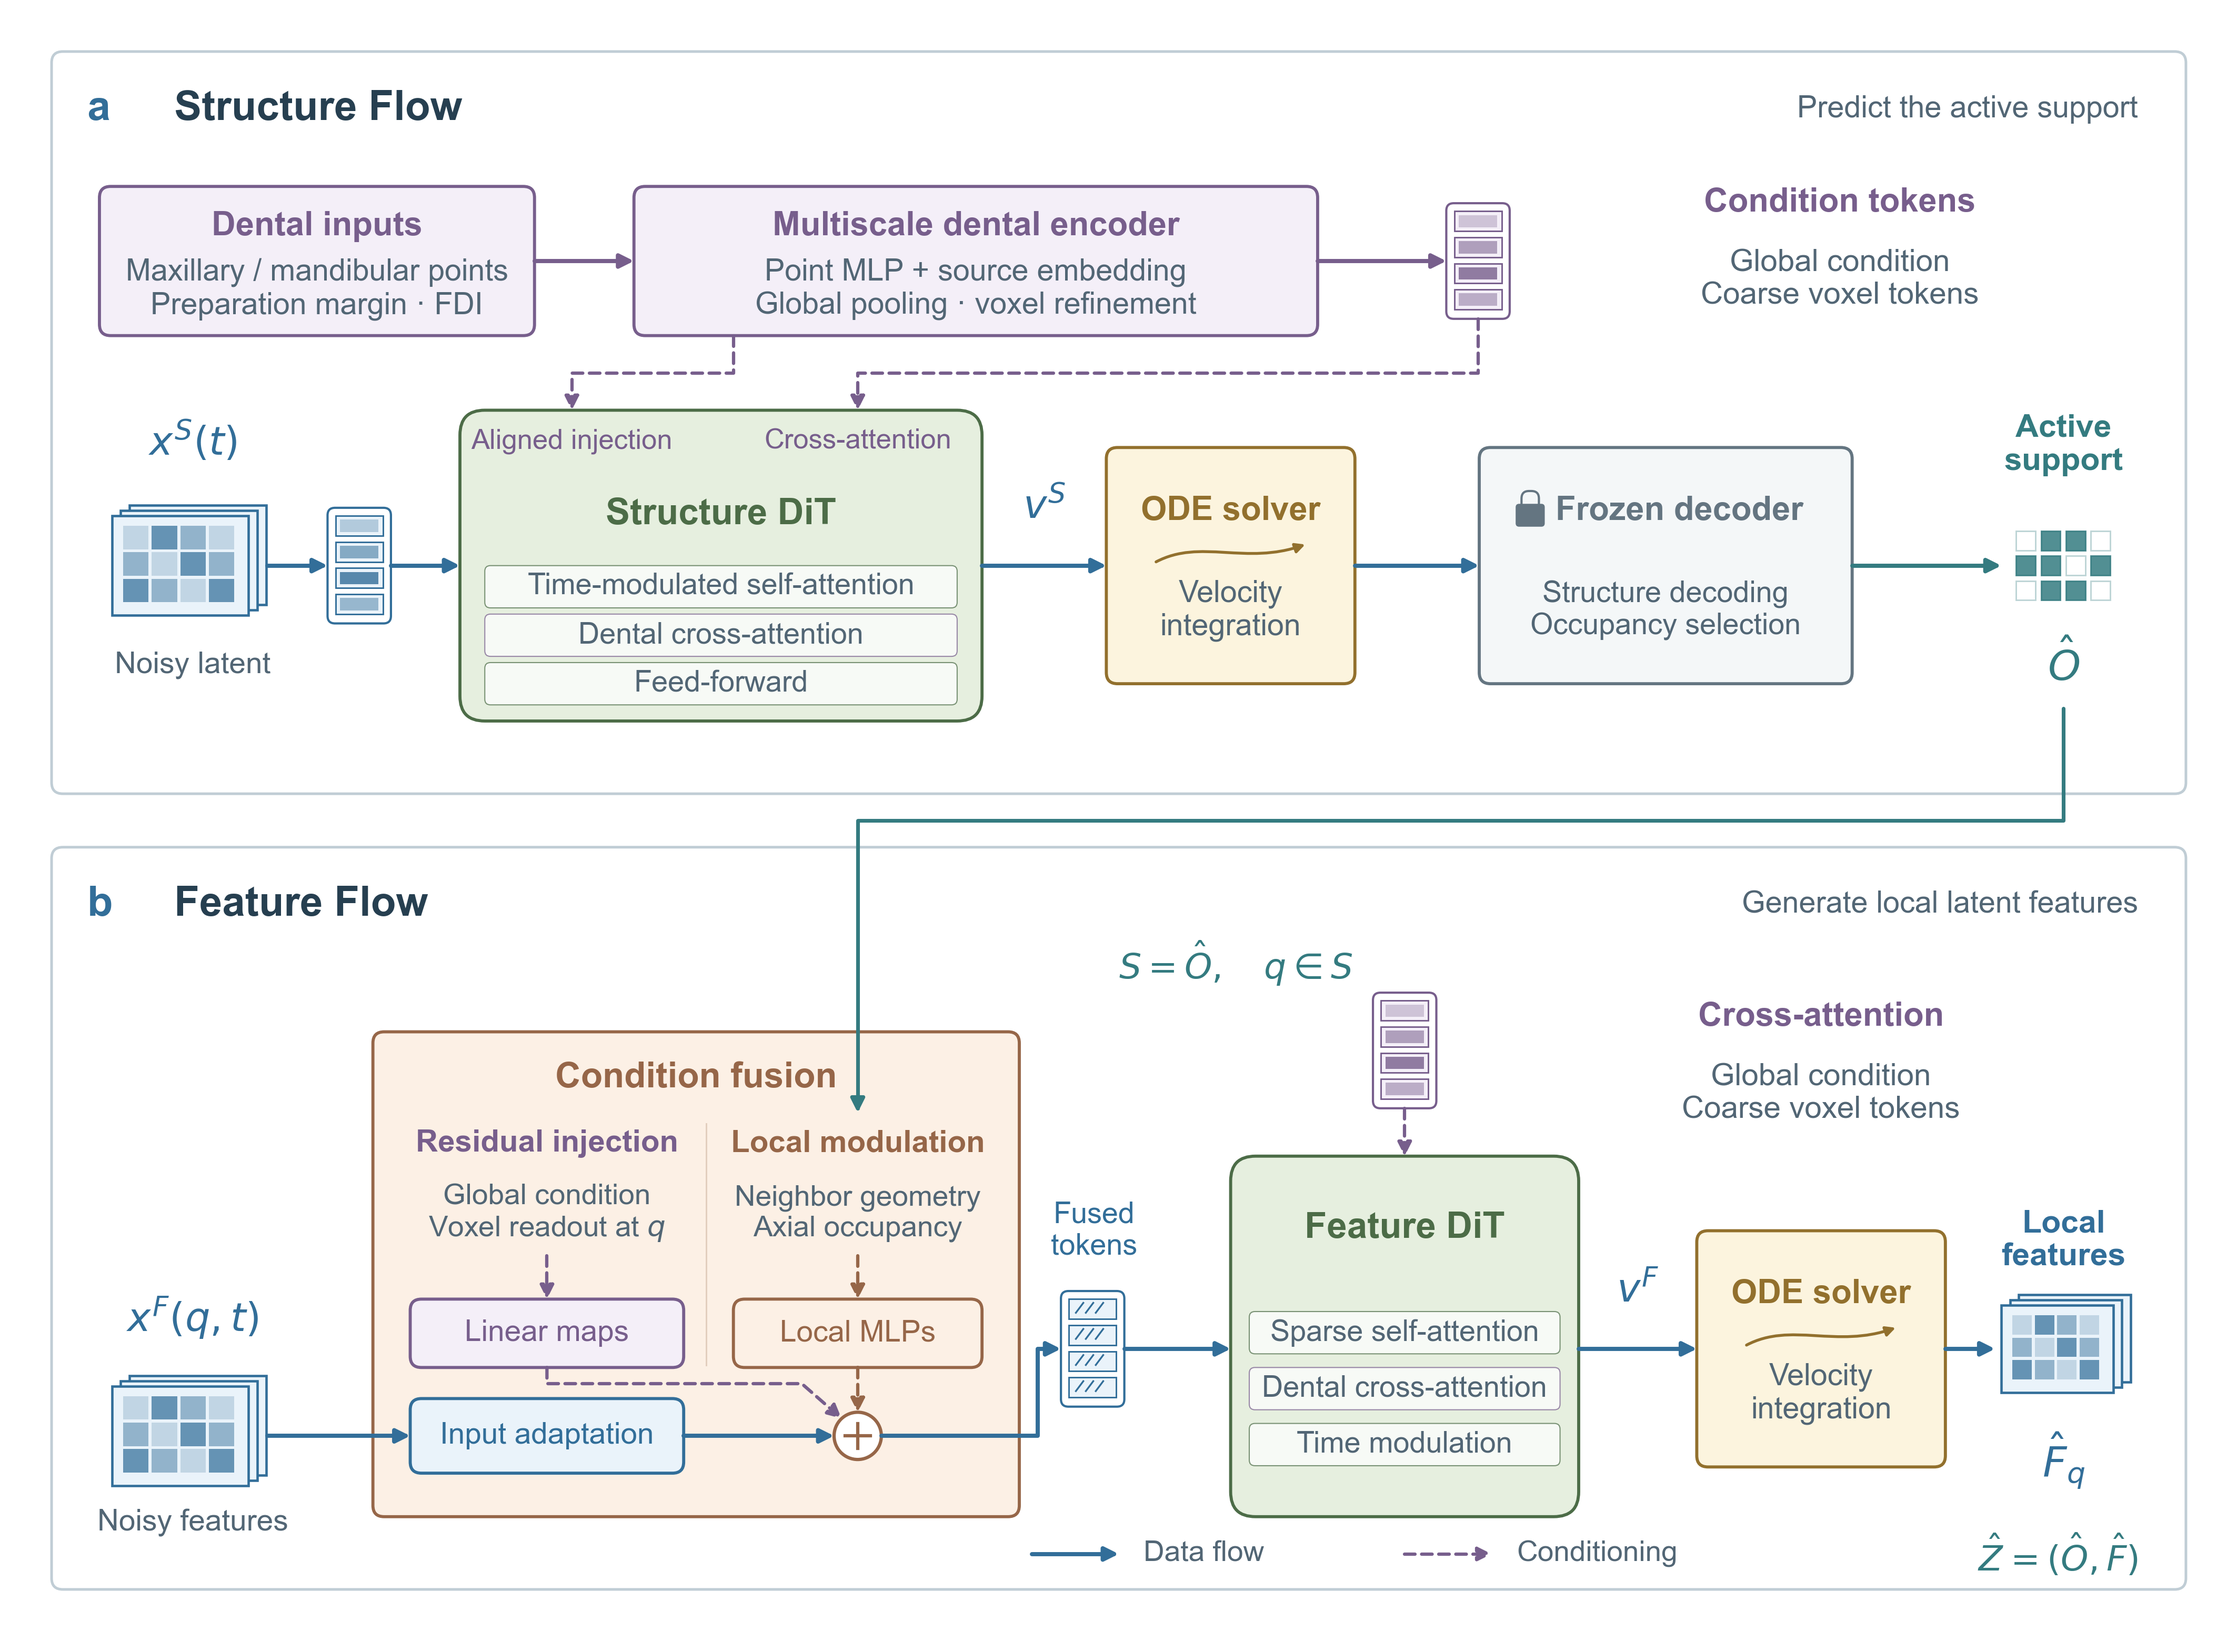
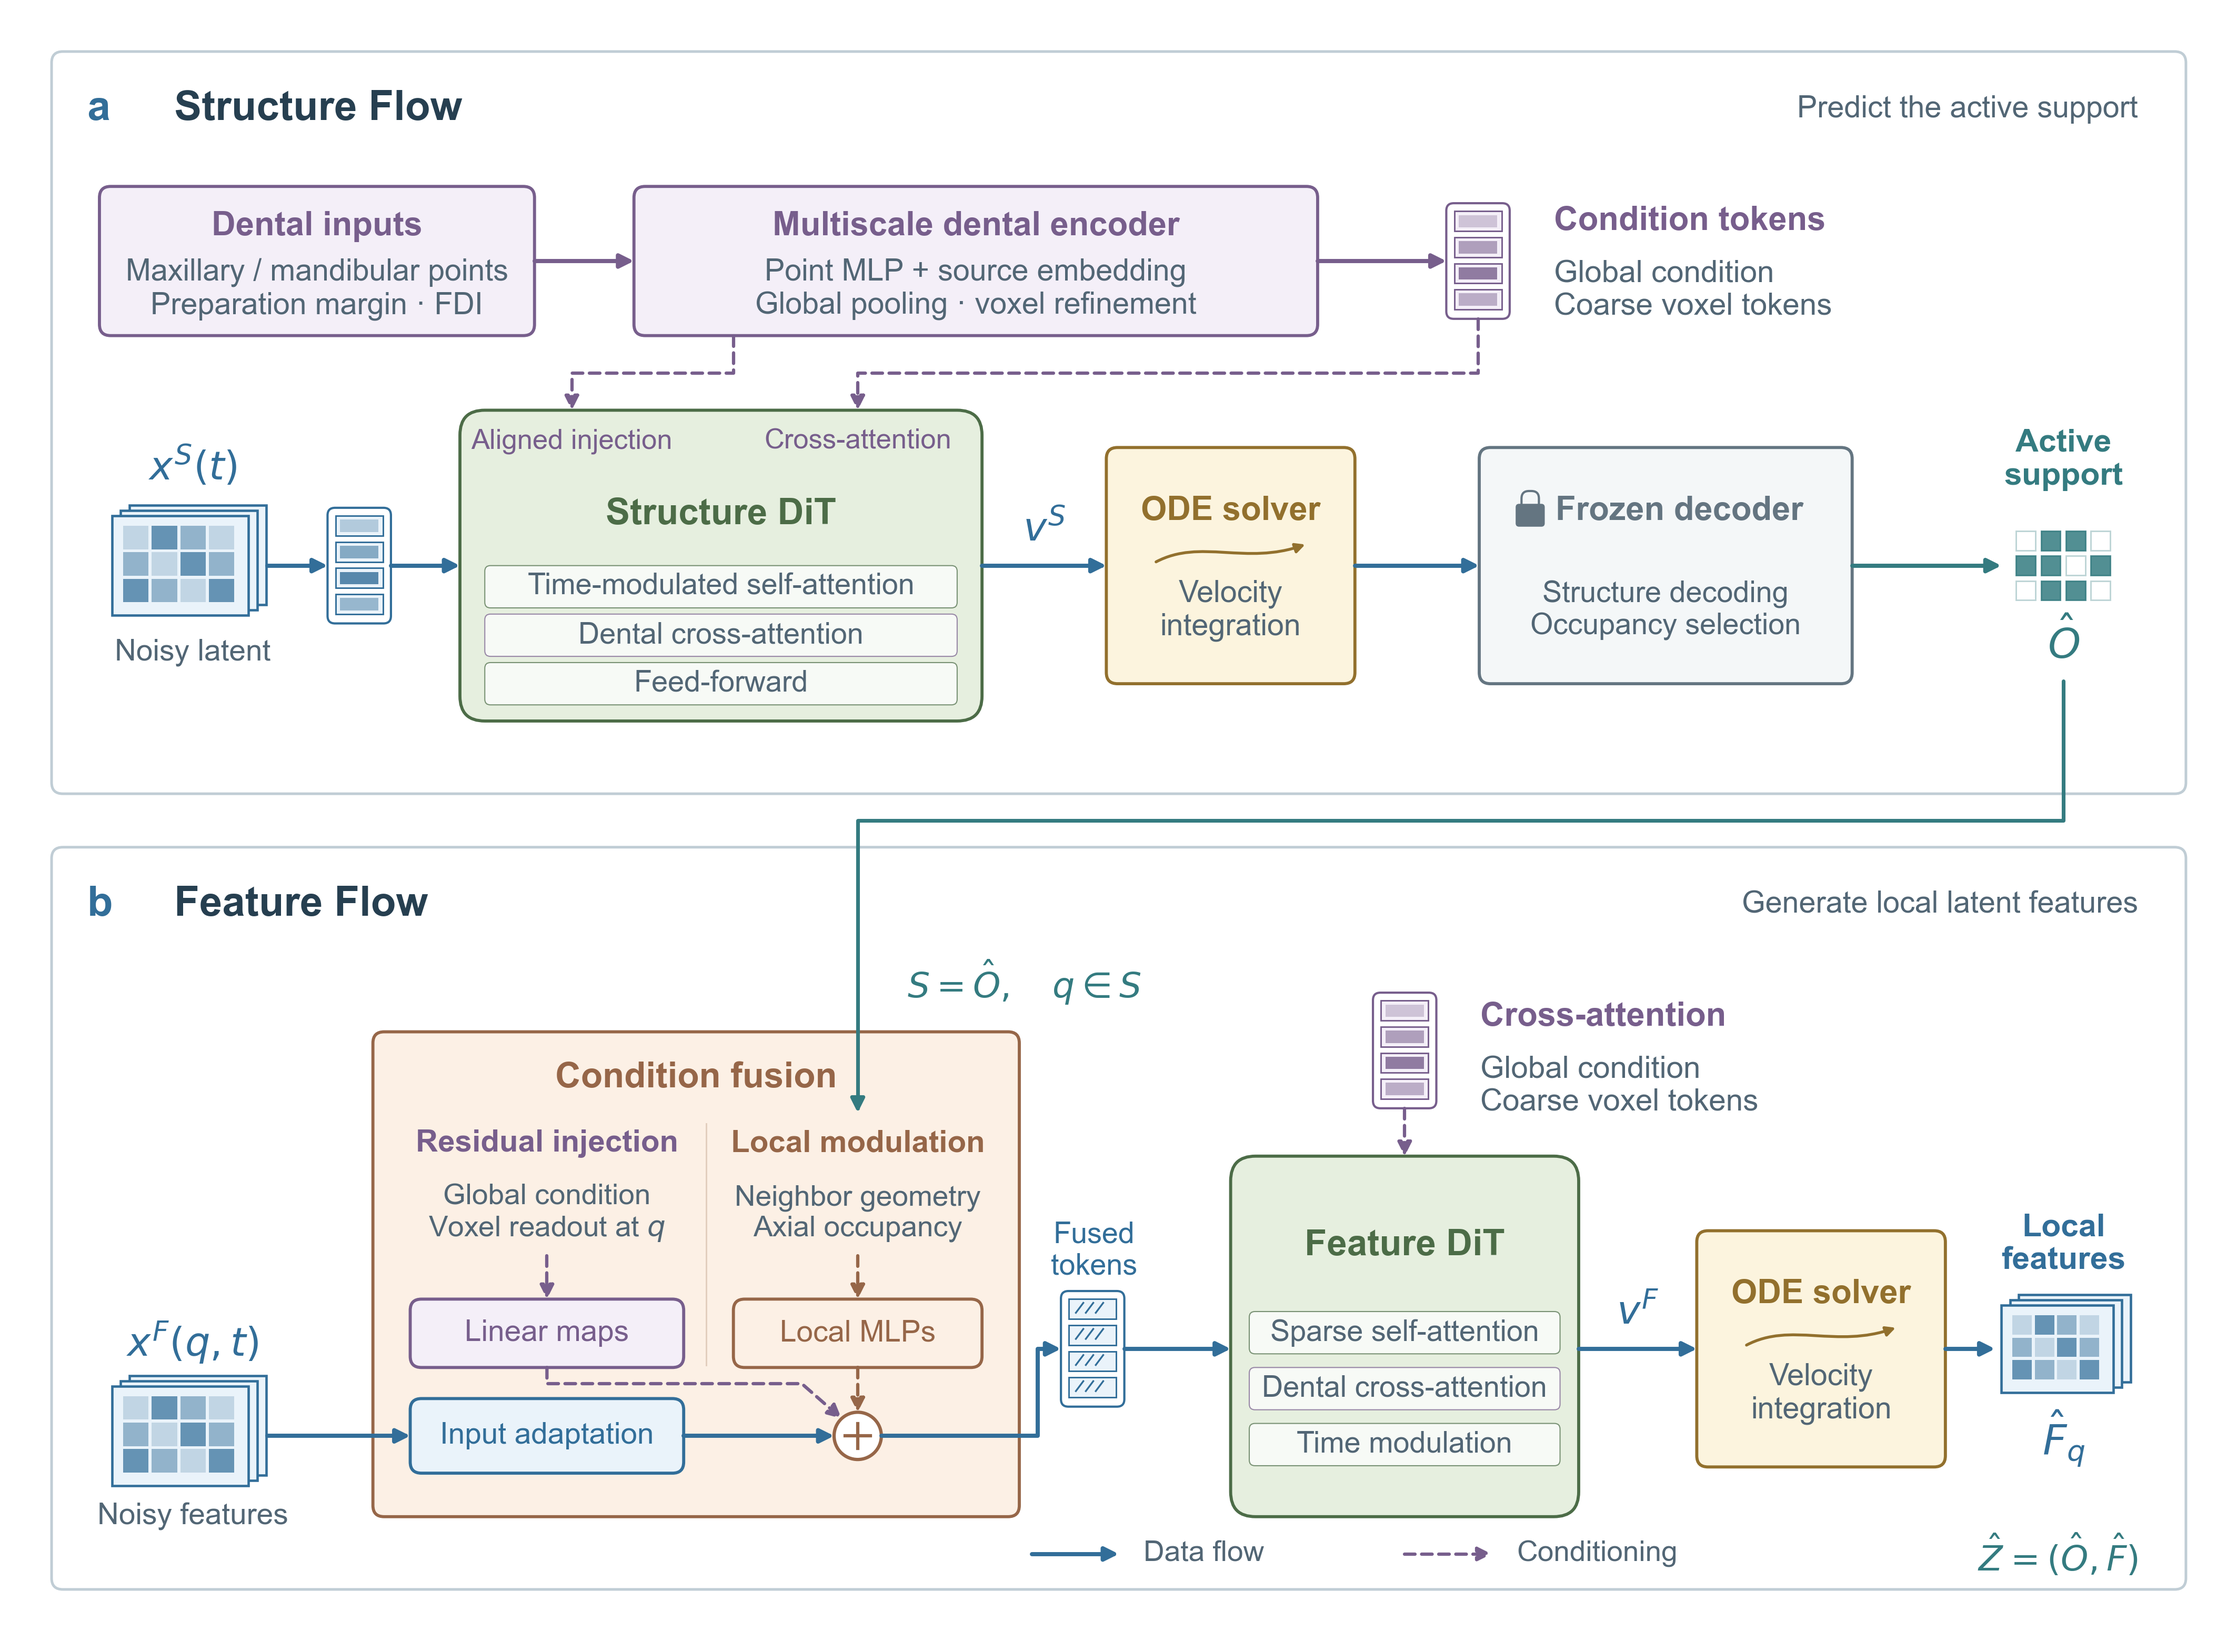
update feature_condition_detail.pdf

diff --git a/figures/generate_feature_condition_detail.py b/figures/generate_feature_condition_detail.py
@@ -153,25 +153,28 @@ def support_grid(ax, x, y):
 
 def latent_input(ax, symbol, detail, *, feature=False):
     center = 11.5
-    txt(ax, center, 31.5 if not feature else 38, symbol, size=9.,
+    txt(ax, center, 33.5 if not feature else 40, symbol, size=9.,
         color=COLORS["flow"][0])
     tensor_stack(ax, 5.0, 37.5 if not feature else 43.5, 11, 8)
-    txt(ax, center, 49.5 if not feature else 54.5, detail, size=6.8, color=MUTED)
+    txt(ax, center, 48.5 if not feature else 54, detail, size=6.8, color=MUTED)
 
 
 def condition_interface(ax, *, feature=False):
     """Unboxed representation beside a token column on a condition path."""
     x = 113 if not feature else 107.1
     token_strip(ax, x, 13 if not feature else 12.5)
-    center = 144 if not feature else 142.5
+    # Place each description directly beside its token glyph with a shared
+    # left edge; the condition arrow remains centered on the token column.
+    label_x = x + 8
     labels = [
-        txt(ax, center, 12.3 if not feature else 13.8,
+        txt(ax, label_x, 13.8,
             "Condition tokens" if not feature else "Cross-attention", size=7.6,
-            color=COLORS["dental"][0], bold=True),
-        txt(ax, center, 18.5 if not feature else 20,
-            "Global condition\nCoarse voxel tokens", size=7., color=MUTED),
+            color=COLORS["dental"][0], bold=True, ha="left"),
+        txt(ax, label_x, 19.4,
+            "Global condition\nCoarse voxel tokens", size=7., color=MUTED, ha="left"),
     ]
-    TEXT_CONTAINMENT.extend((ax, label, (119, 10, 49, 17)) for label in labels)
+    TEXT_CONTAINMENT.extend((ax, label, (label_x-1, 10, 169-label_x, 14))
+                            for label in labels)
 
 
 def fusion_module(ax):
@@ -220,9 +223,9 @@ def fusion_module(ax):
 def result_glyph(ax, *, support=False):
     """Outputs are data glyphs, distinct from all processing blocks."""
     family = "support" if support else "flow"
-    txt(ax, 162, 31.8, "Active\nsupport" if support else "Local\nfeatures",
+    txt(ax, 162, 33 if support else 32.1, "Active\nsupport" if support else "Local\nfeatures",
         size=7.3, color=COLORS[family][0], bold=True)
-    txt(ax, 162, 49.5, r"$\hat O$" if support else r"$\hat F_q$",
+    txt(ax, 162, 47.7, r"$\hat O$" if support else r"$\hat F_q$",
         size=9.5, color=COLORS[family][0])
     if support:
         support_grid(ax, 158.2, 38.725)
@@ -287,7 +290,7 @@ def structure_panel(ax):
     for start, end in ((17.5, 22.35), (27.45, 33), (75, 85), (105, 115)):
         wire(ax, [(start, 41.5), (end, 41.5)])
     wire(ax, [(145, 41.5), (157, 41.5)], family="support")
-    txt(ax, 80, 36.8, r"$v^S$", size=9., color=COLORS["flow"][0])
+    txt(ax, 80, 38.6, r"$v^S$", size=9., color=COLORS["flow"][0])
 
 
 def feature_panel(ax):
@@ -299,9 +302,9 @@ def feature_panel(ax):
     latent_input(ax, r"$x^F(q,t)$", "Noisy features", feature=True)
     fusion_module(ax)
     token_strip(ax, 82, 36.5, family="flow", conditioned=True)
-    txt(ax, 84, 31, "Fused\ntokens", size=6.7, color=COLORS["flow"][0])
+    txt(ax, 84, 32.6, "Fused\ntokens", size=6.7, color=COLORS["flow"][0])
     frame(ax,95,25,28,29,family="transformer")
-    t=txt(ax,109,30.8,"Feature DiT",size=8.3,bold=True,color=COLORS["transformer"][0])
+    t=txt(ax,109,32.2,"Feature DiT",size=8.3,bold=True,color=COLORS["transformer"][0])
     TEXT_CONTAINMENT.append((ax,t,(95,25,28,29)))
     for y,label,family in ((37.5,"Sparse self-attention","transformer"),
                            (42.,"Dental cross-attention","dental"),
@@ -314,8 +317,8 @@ def feature_panel(ax):
     wire(ax,[(17.5,47.5),(29,47.5)])
     for start, end in ((86.45,95),(123,132.5),(152.5,156.5)):
         wire(ax,[(start,40.5),(end,40.5)])
-    txt(ax, 127.75, 35.8, r"$v^F$", size=9., color=COLORS["flow"][0])
-    txt(ax, 86, 9.5, r"$S=\hat O,\quad q\in S$", size=8.,
+    txt(ax, 127.75, 37.6, r"$v^F$", size=9., color=COLORS["flow"][0])
+    txt(ax, 69, 11, r"$S=\hat O,\quad q\in S$", size=8.,
         color=COLORS["support"][0], ha="left")
     txt(ax, 168, 57.1, r"$\hat Z=(\hat O,\hat F)$", size=8.,
         color=COLORS["support"][0], ha="right")
@@ -349,7 +352,7 @@ def build_figure():
 
     # The only connection between stages carries support to local conditioning.
     support_path = MplPath(
-        [(166/180, 75/132), (166/180, 66/132),
+        [(166/180, 77.2/132), (166/180, 66/132),
          (69/180, 66/132), (69/180, 42.5/132)],
         [MplPath.MOVETO, MplPath.LINETO, MplPath.LINETO, MplPath.LINETO],
     )
